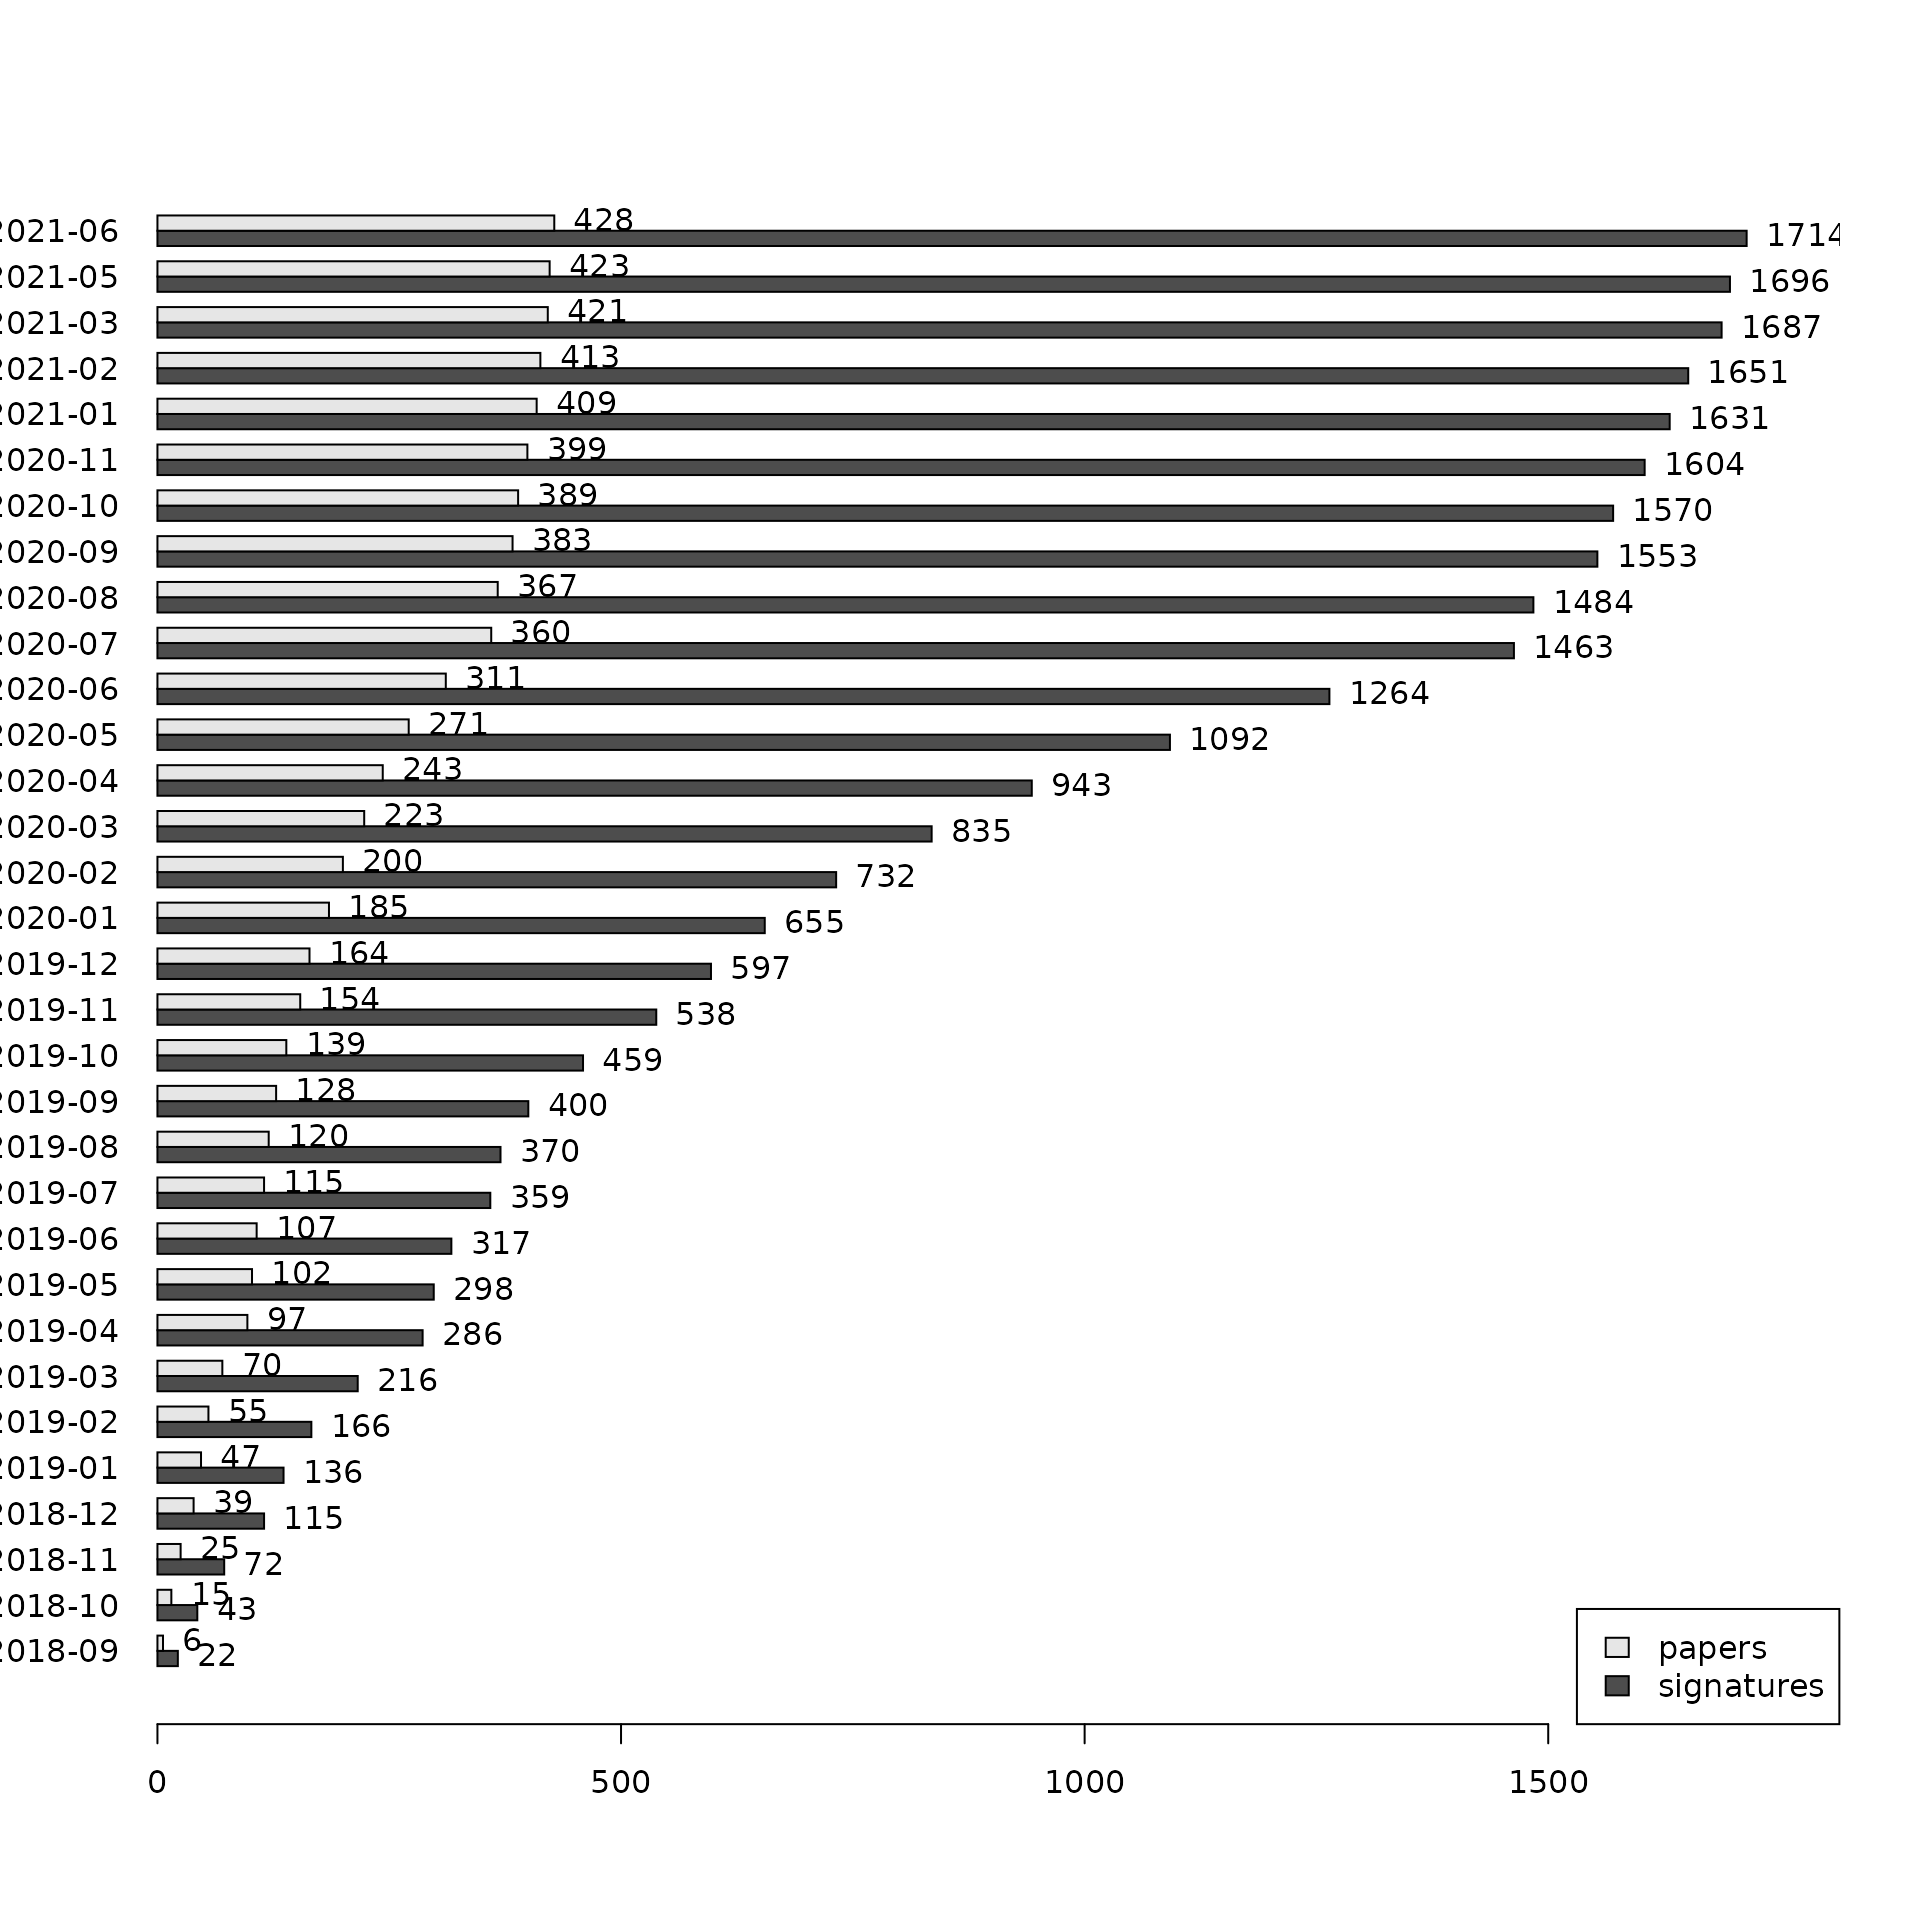
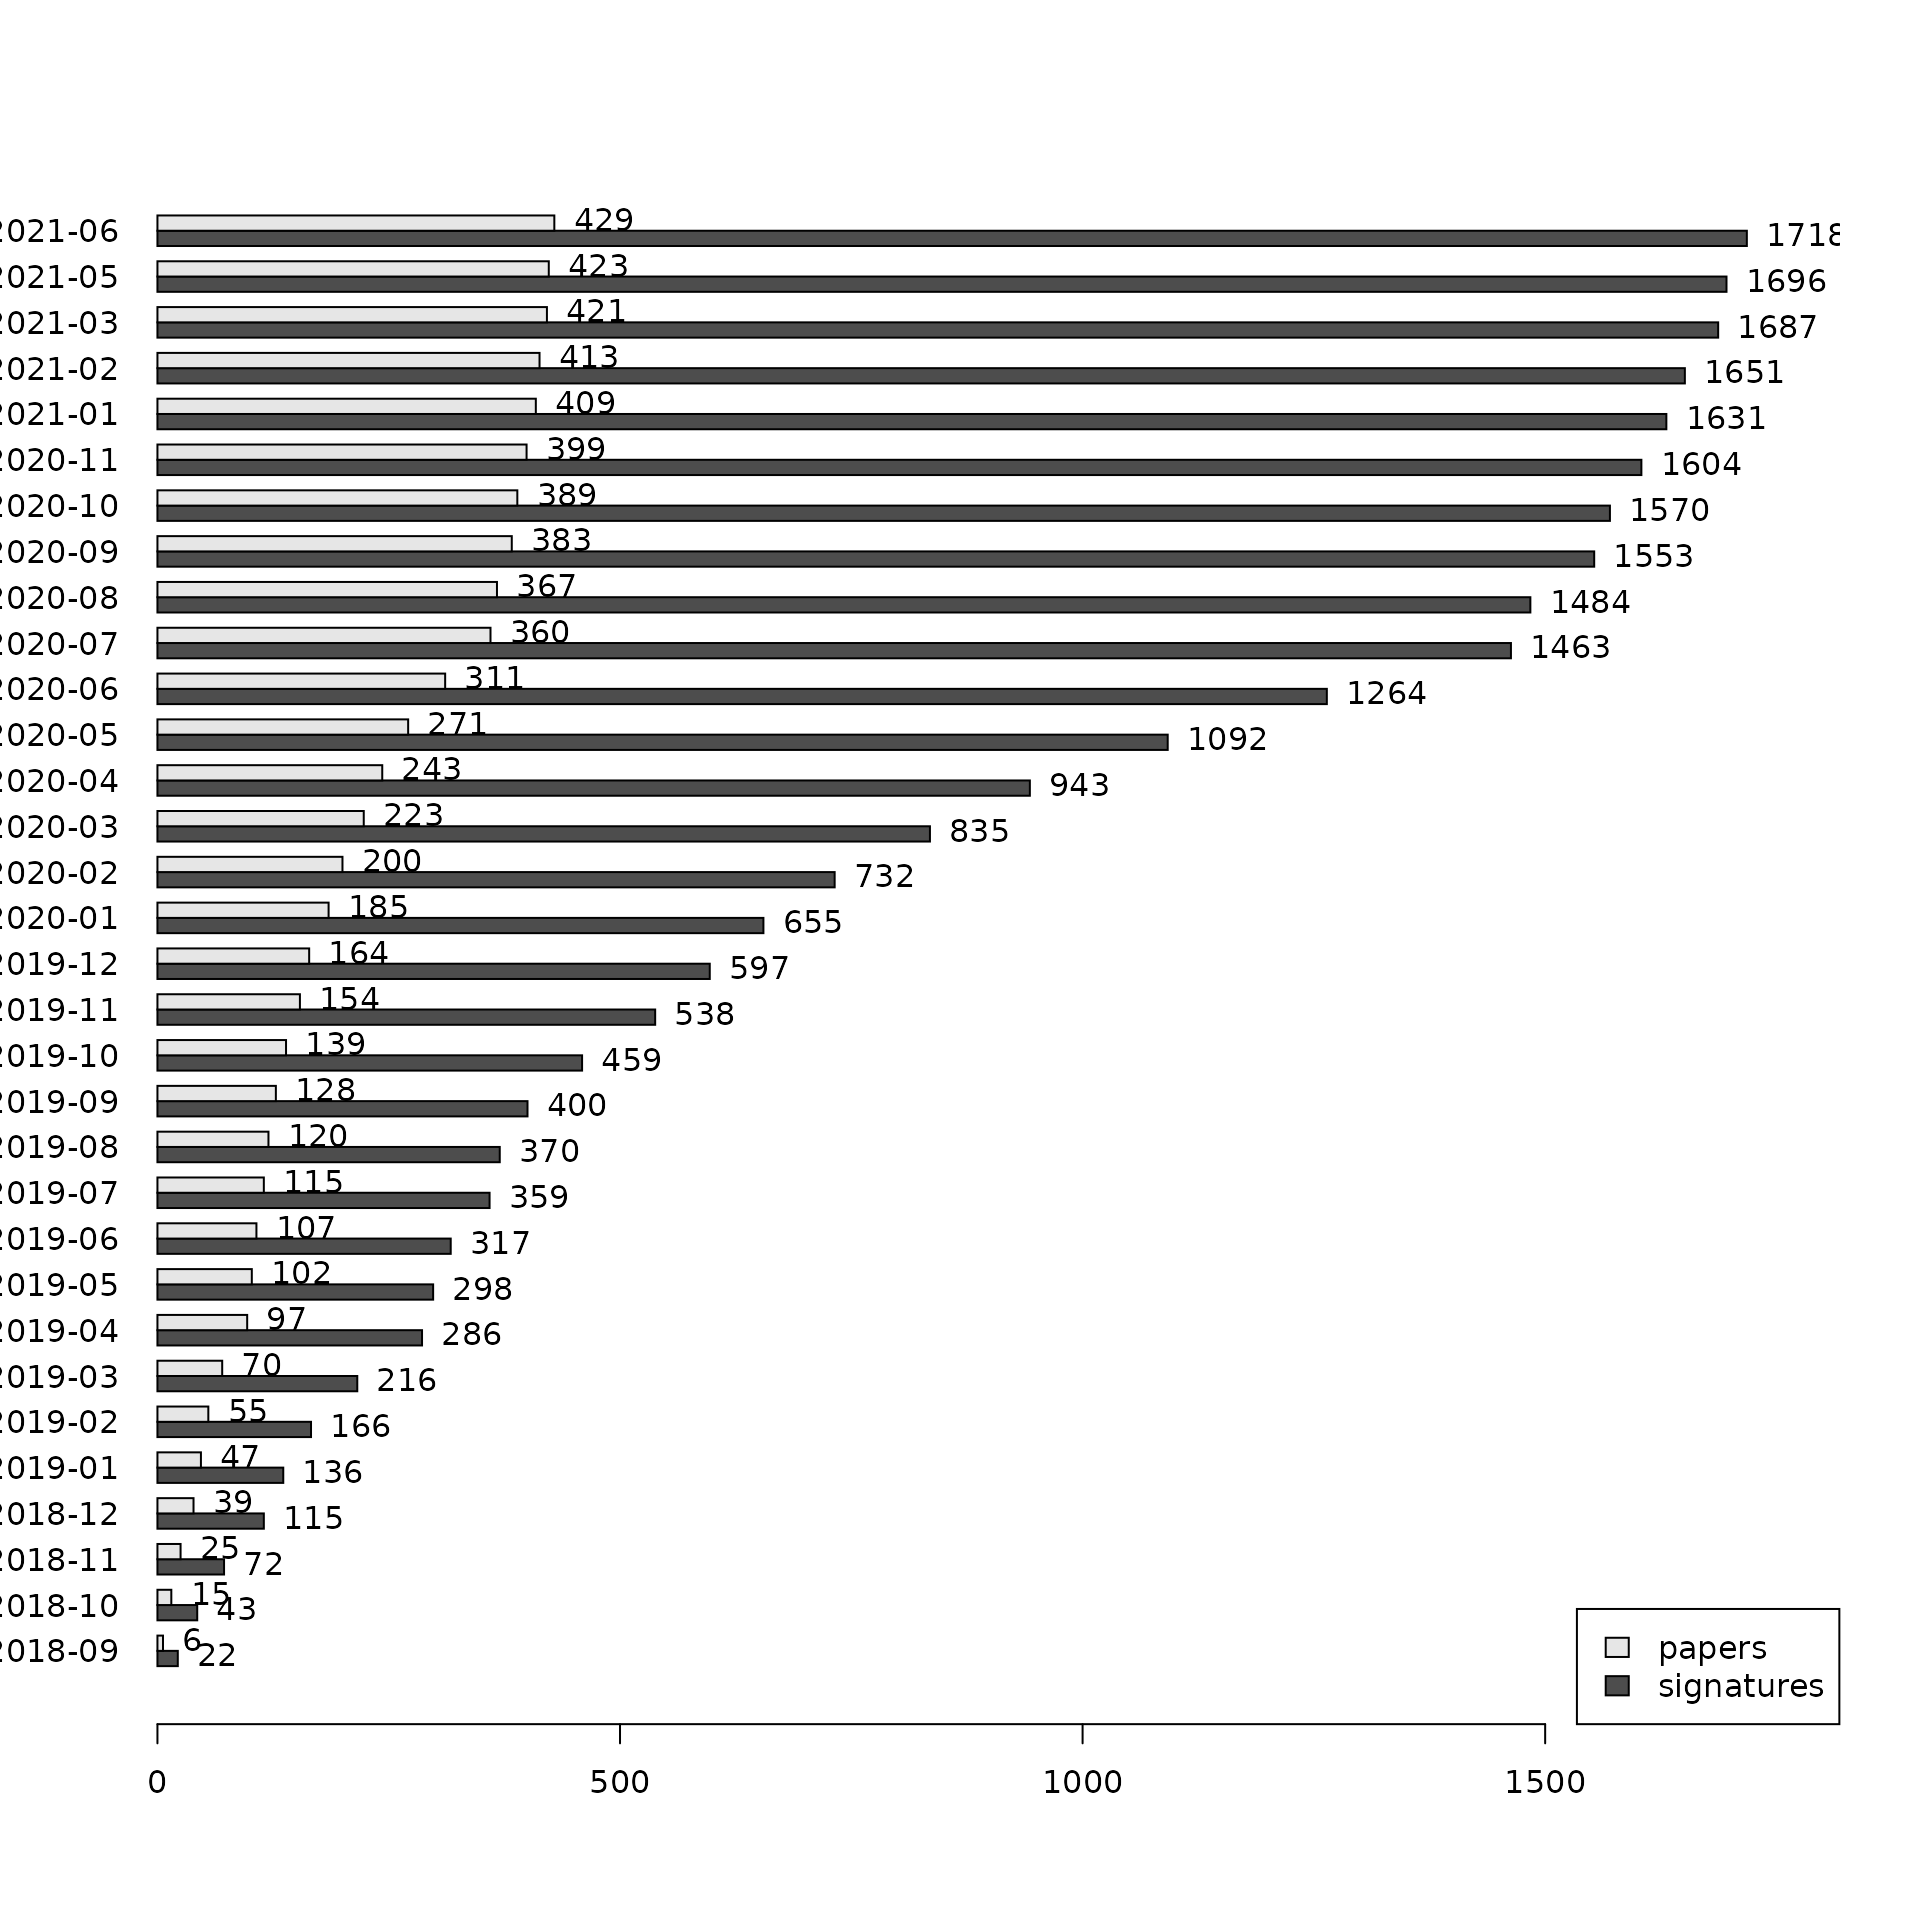
Deploying to gh-pages from  @ 73223ce294398b5d8837817862473400aee4ad90 🚀

diff --git a/articles/BugSigDBStats.html b/articles/BugSigDBStats.html
@@ -85,7 +85,7 @@
 <p>Get bulk export from bugsigdb.org:</p>
 <div class="sourceCode" id="cb2"><pre class="downlit">
 <span class="va">full.dat</span> <span class="op">&lt;-</span> <span class="fu">bugsigdbr</span><span class="fu">::</span><span class="fu"><a href="https://rdrr.io/pkg/bugsigdbr/man/importBugSigDB.html">importBugSigDB</a></span><span class="op">(</span><span class="op">)</span></pre></div>
-<pre><code>## using temporary cache /tmp/RtmpNWe81s/BiocFileCache</code></pre>
+<pre><code>## using temporary cache /tmp/Rtmp5csr8N/BiocFileCache</code></pre>
 <pre><code>## 
 ## ── Column specification ────────────────────────────────────────────────────────
 ## cols(
@@ -129,7 +129,7 @@
 ## )</code></pre>
 <div class="sourceCode" id="cb7"><pre class="downlit">
 <span class="fu"><a href="https://rdrr.io/r/base/dim.html">dim</a></span><span class="op">(</span><span class="va">full.dat</span><span class="op">)</span></pre></div>
-<pre><code>## [1] 1751   45</code></pre>
+<pre><code>## [1] 1754   45</code></pre>
 <div class="sourceCode" id="cb9"><pre class="downlit">
 <span class="fu"><a href="https://rdrr.io/r/base/colnames.html">colnames</a></span><span class="op">(</span><span class="va">full.dat</span><span class="op">)</span></pre></div>
 <pre><code>##  [1] "Study"                      "Study design"              
@@ -163,10 +163,10 @@
 <div class="sourceCode" id="cb11"><pre class="downlit">
 <span class="va">pmids</span> <span class="op">&lt;-</span> <span class="fu"><a href="https://rdrr.io/r/base/unique.html">unique</a></span><span class="op">(</span><span class="va">full.dat</span><span class="op">[</span>,<span class="st">"PMID"</span><span class="op">]</span><span class="op">)</span>
 <span class="fu"><a href="https://rdrr.io/r/base/length.html">length</a></span><span class="op">(</span><span class="va">pmids</span><span class="op">)</span></pre></div>
-<pre><code>## [1] 434</code></pre>
+<pre><code>## [1] 435</code></pre>
 <div class="sourceCode" id="cb13"><pre class="downlit">
 <span class="fu"><a href="https://rdrr.io/r/base/nrow.html">nrow</a></span><span class="op">(</span><span class="va">full.dat</span><span class="op">)</span></pre></div>
-<pre><code>## [1] 1751</code></pre>
+<pre><code>## [1] 1754</code></pre>
 <p>Publication date of the curated papers:</p>
 <div class="sourceCode" id="cb15"><pre class="downlit">
 <span class="va">pmids</span> <span class="op">&lt;-</span> <span class="va">pmids</span><span class="op">[</span><span class="op">!</span><span class="fu"><a href="https://rdrr.io/r/base/NA.html">is.na</a></span><span class="op">(</span><span class="va">pmids</span><span class="op">)</span><span class="op">]</span>
@@ -196,7 +196,7 @@
 <span class="co"># more realistic estimation of number of signatures curated</span>
 <span class="va">dat</span> <span class="op">&lt;-</span> <span class="fu"><a href="../reference/stripEmptySignatures.html">stripEmptySignatures</a></span><span class="op">(</span><span class="va">full.dat</span><span class="op">)</span>
 <span class="fu"><a href="https://rdrr.io/r/base/nrow.html">nrow</a></span><span class="op">(</span><span class="va">dat</span><span class="op">)</span></pre></div>
-<pre><code>## [1] 1714</code></pre>
+<pre><code>## [1] 1718</code></pre>
 <p>Papers containing only empty UP and DOWN signatures (under curation?):</p>
 <div class="sourceCode" id="cb20"><pre class="downlit">
 <span class="fu"><a href="https://rdrr.io/r/base/sets.html">setdiff</a></span><span class="op">(</span><span class="va">pmids</span>, <span class="fu"><a href="https://rdrr.io/r/base/unique.html">unique</a></span><span class="op">(</span><span class="va">dat</span><span class="op">[</span>,<span class="st">"PMID"</span><span class="op">]</span><span class="op">)</span><span class="op">)</span></pre></div>
@@ -219,21 +219,21 @@
 <span class="fu"><a href="https://rdrr.io/r/base/table.html">table</a></span><span class="op">(</span><span class="va">dat</span><span class="op">[</span>,<span class="st">"Revision editor"</span><span class="op">]</span><span class="op">)</span></pre></div>
 <pre><code>## 
 ##                        Claregrieve1                    Cynthia Anderson 
-##                                  21                                  33 
+##                                  22                                  33 
 ##       Cynthia Anderson,WikiWorks743                              Fatima 
 ##                                   3                                   4 
 ##          Fatima,Rimsha,WikiWorks743                 Fatima,WikiWorks743 
 ##                                   1                                   5 
 ##                      Fatima,Yu Wang                       Lorakasselman 
 ##                                   6                                   2 
-##                       Madhubani Dey                             Manuela 
-##                                   6                                  11 
-##                 Rimsha,WikiWorks743                           Valentina 
-##                                   1                                   2 
-## WikiWorks,WikiWorks743,WikiWorks753                        WikiWorks743 
-##                                   1                                1617 
-##           WikiWorks743,WikiWorks753 
-##                                   1</code></pre>
+##               Lwaldron,WikiWorks743                       Madhubani Dey 
+##                                   1                                   6 
+##                             Manuela                 Rimsha,WikiWorks743 
+##                                  11                                   1 
+##                           Valentina WikiWorks,WikiWorks743,WikiWorks753 
+##                                   2                                   1 
+##                        WikiWorks743           WikiWorks743,WikiWorks753 
+##                                1616                                   1</code></pre>
 </div>
   </div>
 
